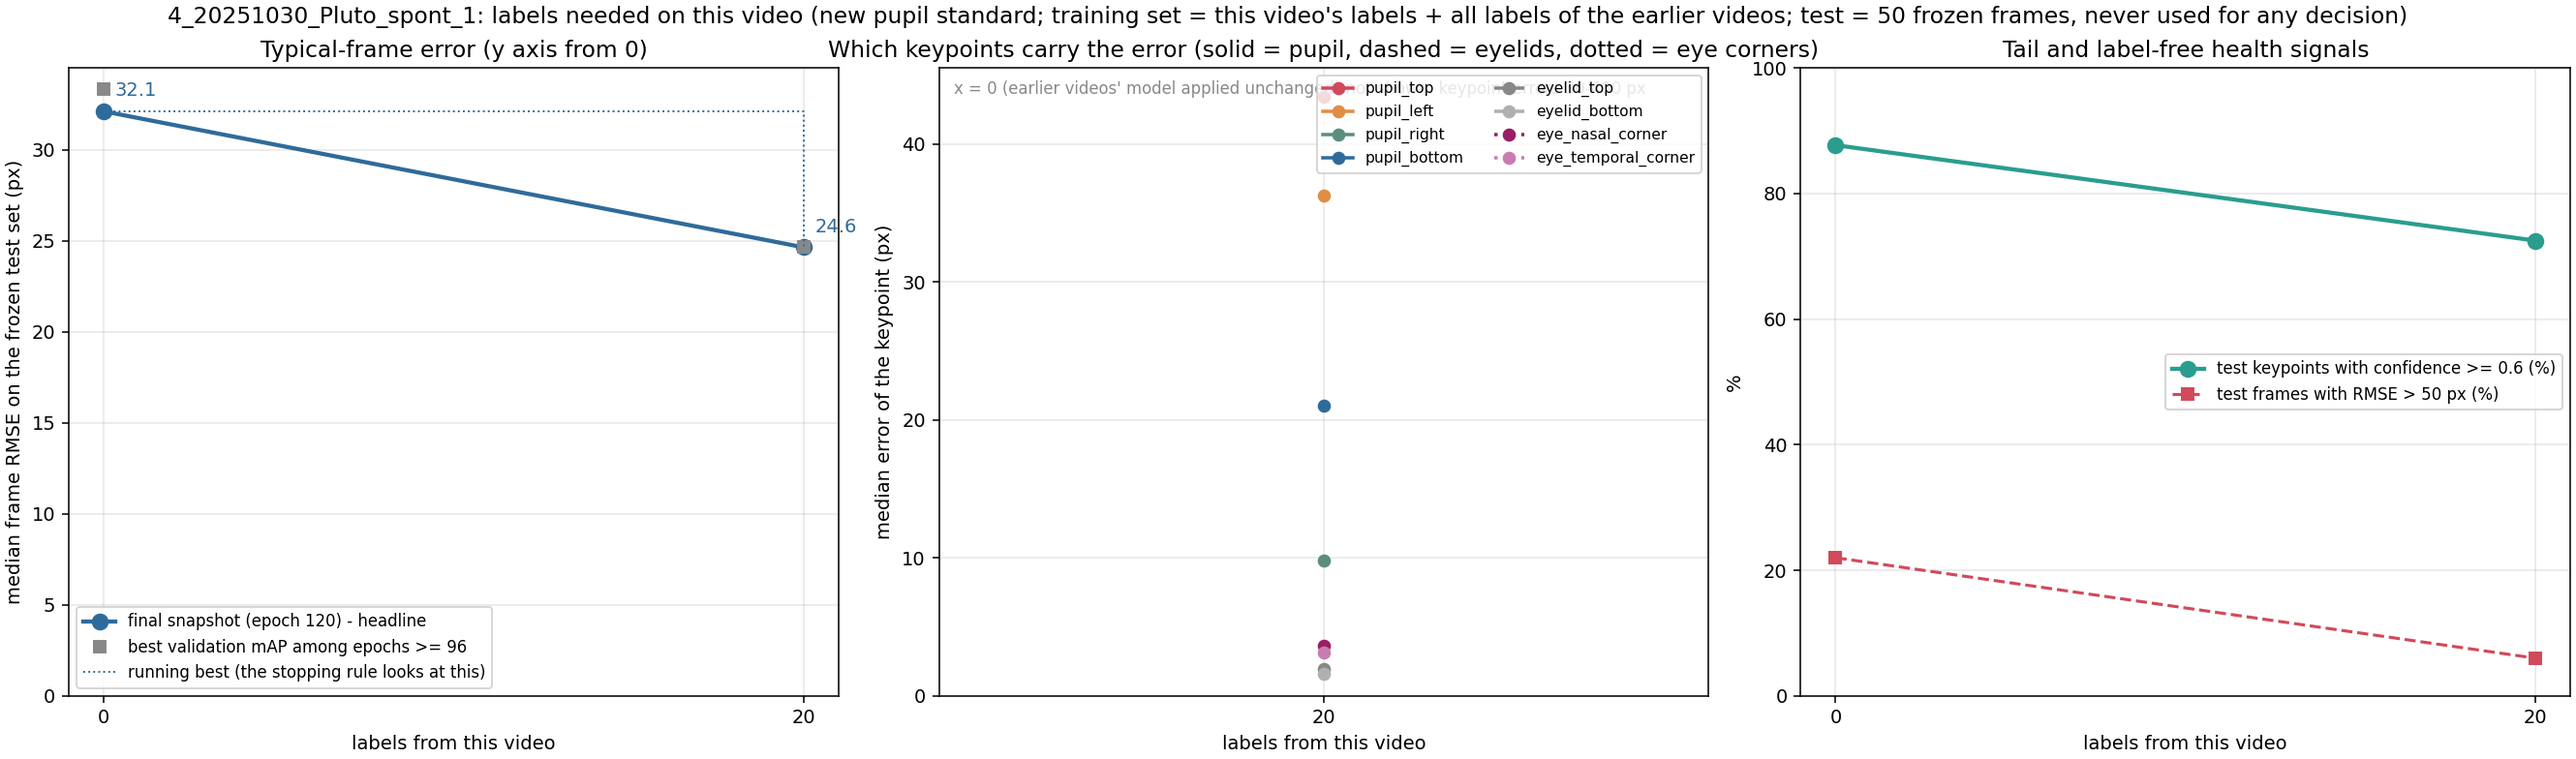
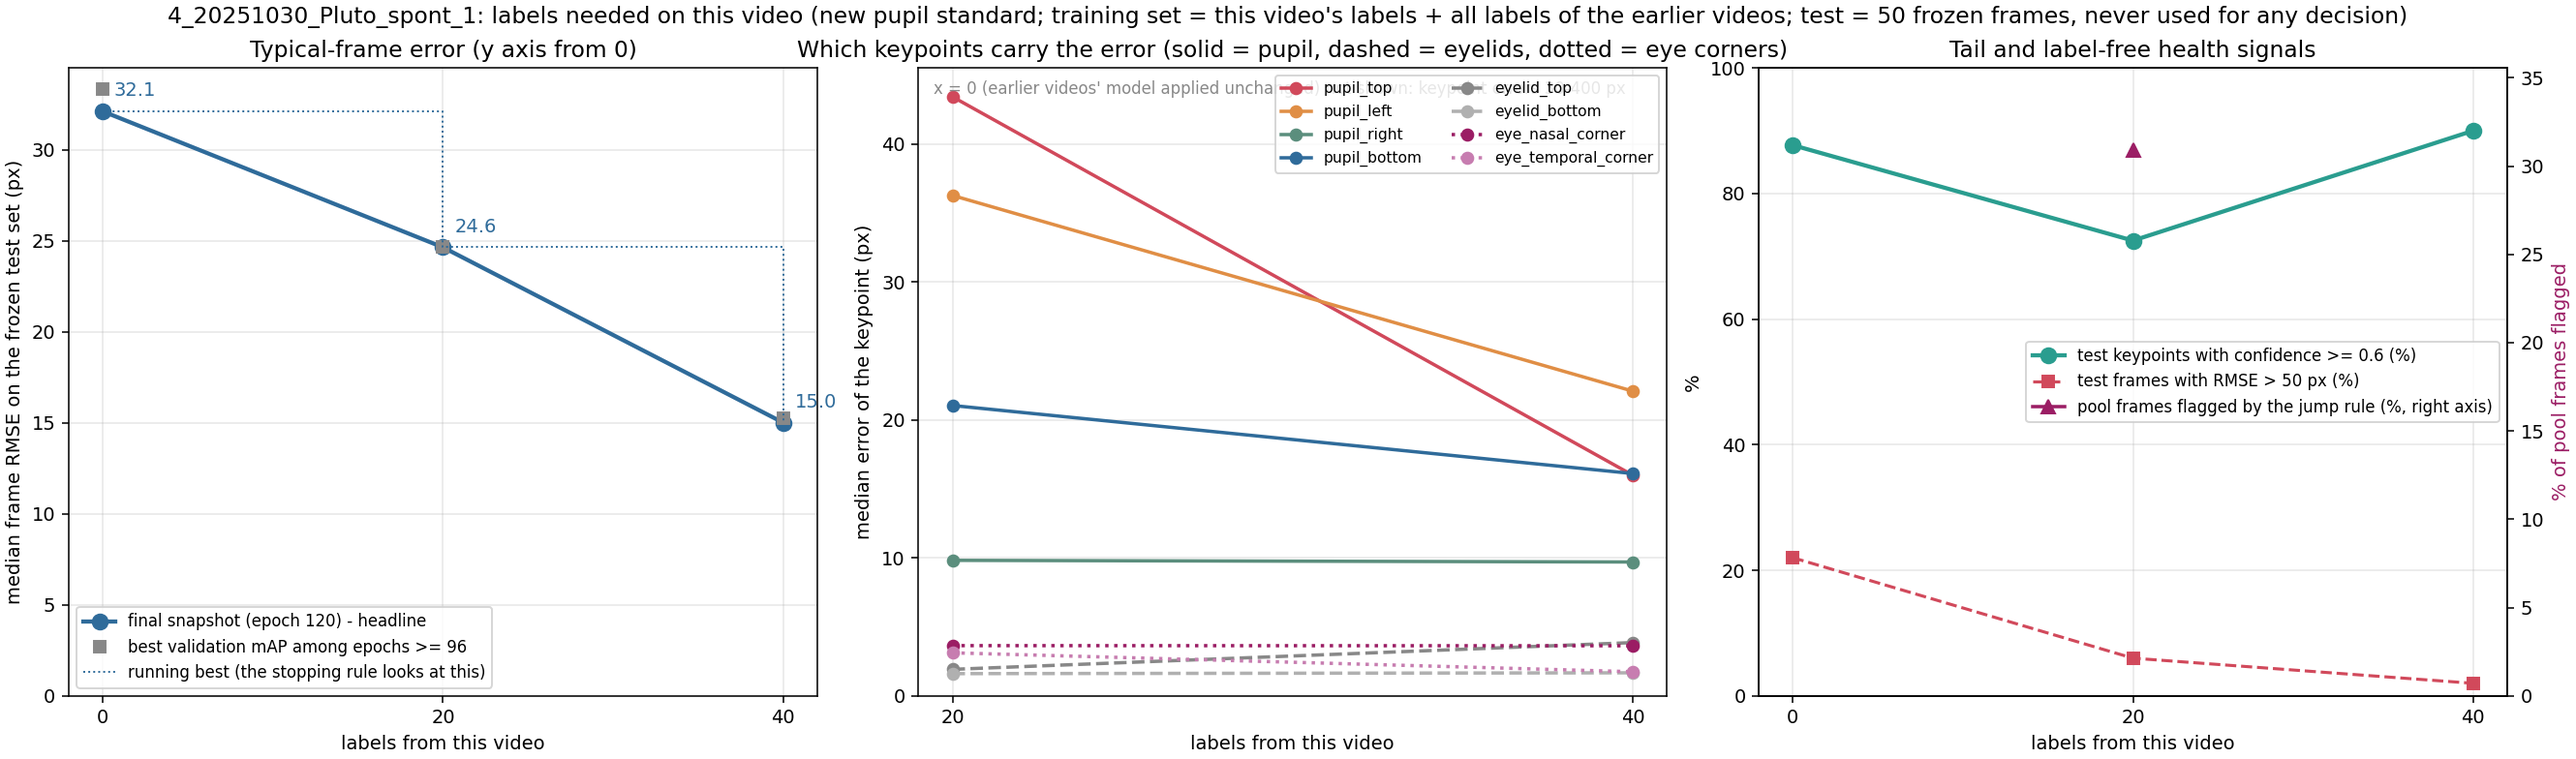
Video 4 run 2: batch03 selected (7134 pool frames flagged); model 532 back-tested

diff --git a/new_pupil_top_video_scaling/4_20251030_Pluto_spont_1/results/README.md b/new_pupil_top_video_scaling/4_20251030_Pluto_spont_1/results/README.md
@@ -16,4 +16,4 @@ run 1) + this video's labels.
 |---|---|---|---|---|---|
 | 0 (video-3 step-3 model 423, applied unchanged) | 32.11 px | – | – | – | – |
 | 20 | 24.64 px | 45.2 | 6% | 72% | 17672 |
-| 40 | 15.01 px | 24.1 | 2% | 90% | (pending) |
+| 40 | 15.01 px | 24.1 | 2% | 90% | 7134 |
